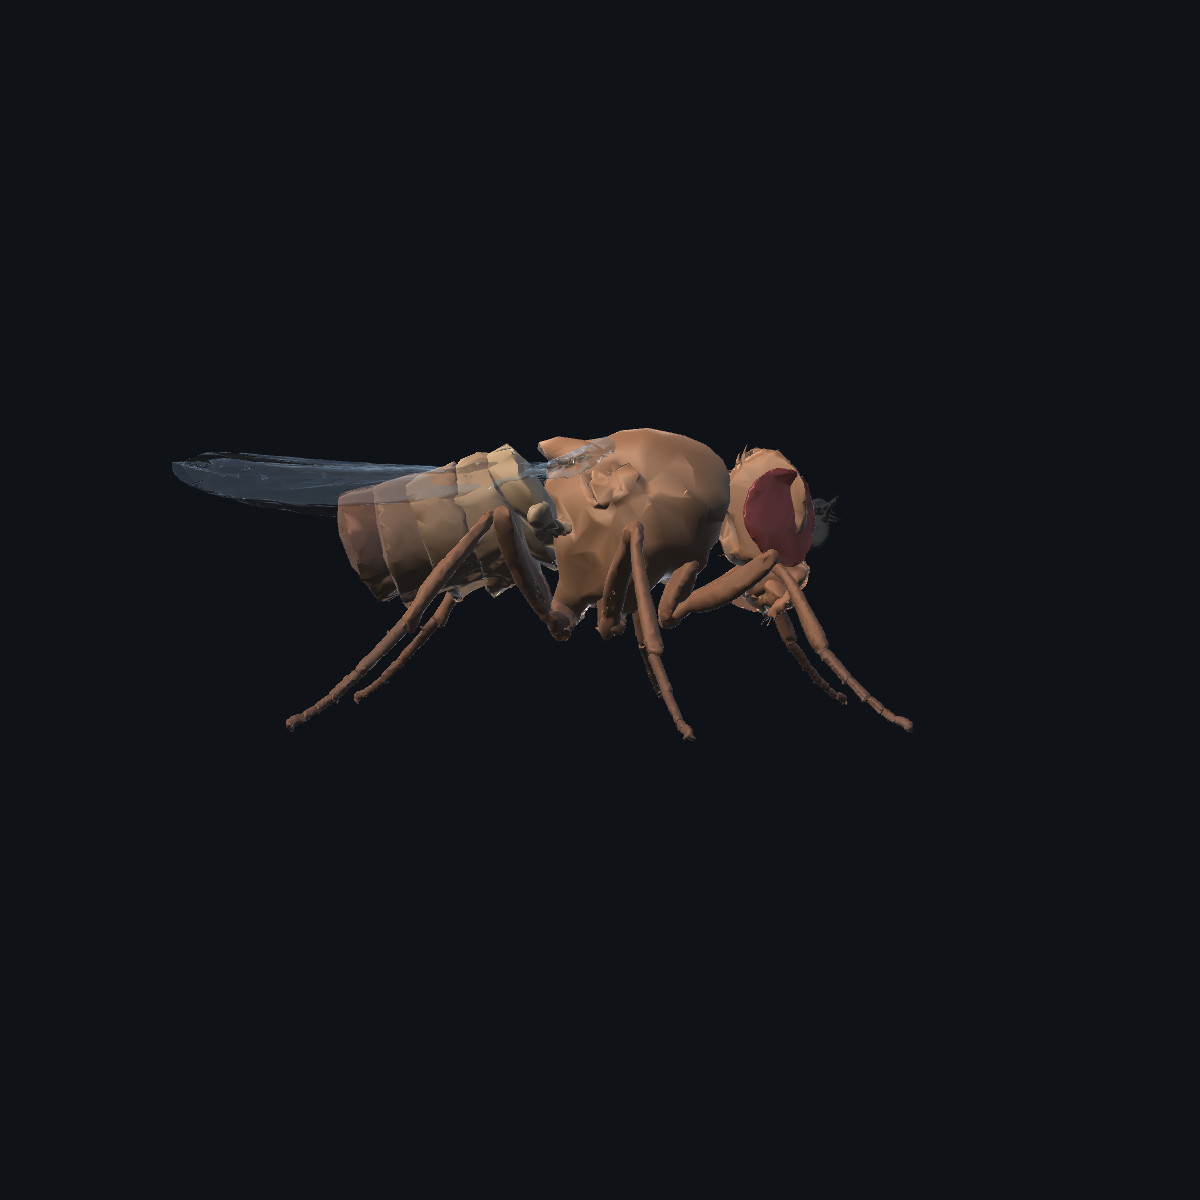
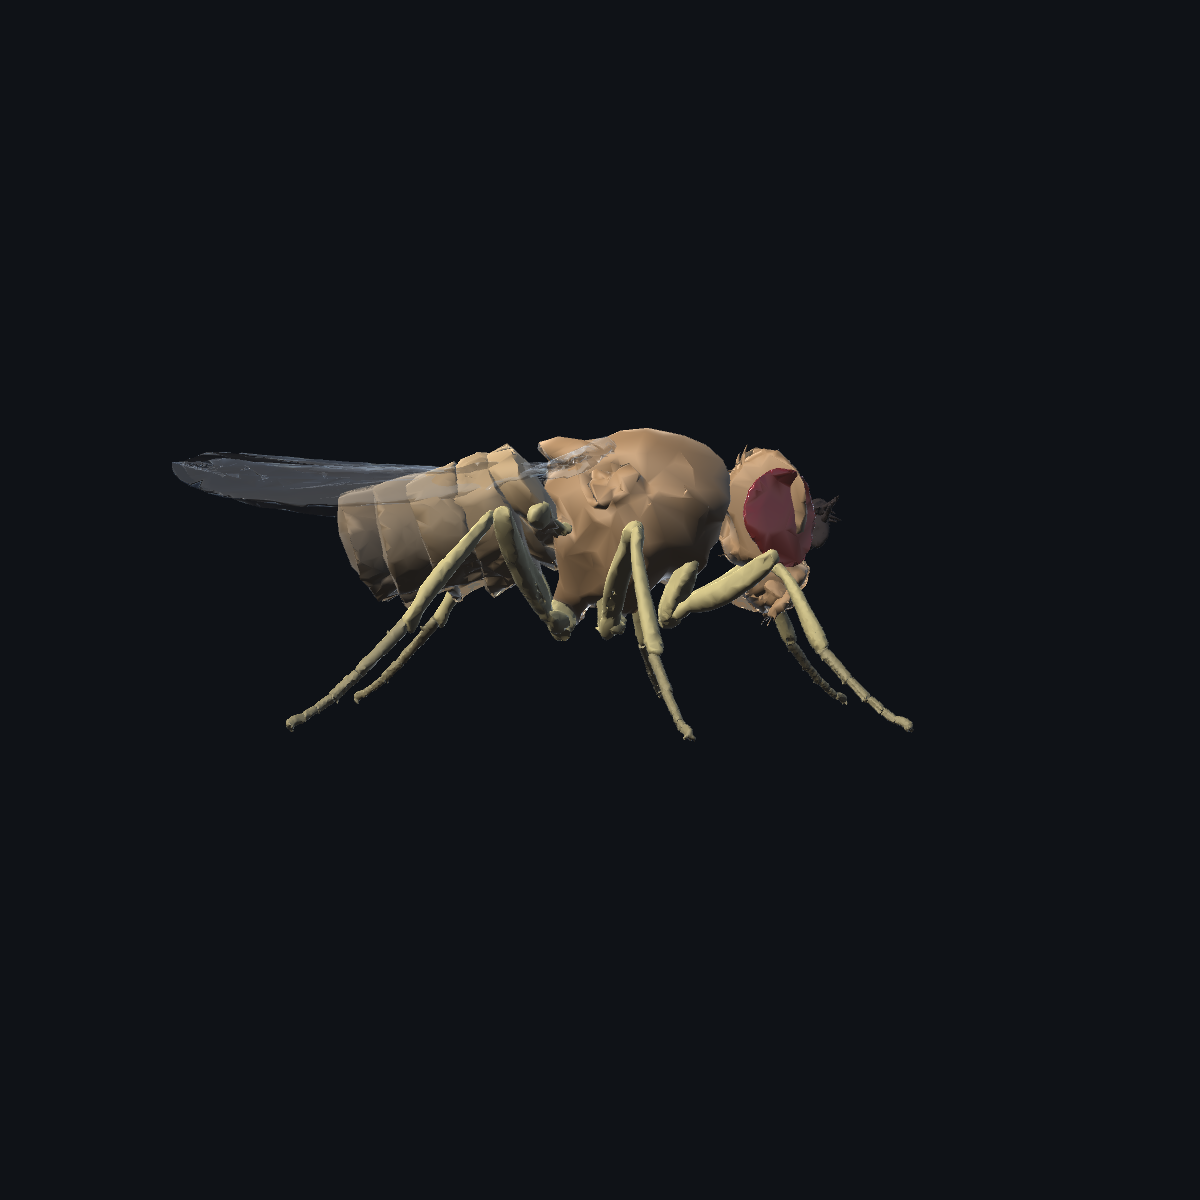
feat: add the Drosophila palette alongside the flybody one
Paleta proposta pelo usuario, aplicada dentro da arquitetura que ja existe:

  olho      #A61C1C   tijolo
  torax     #C68E4F   ambar
  abdomen   #DEB887   ocre, BASE da banda
  perna     #EEDC82   amarelo palido
  asa       #EAF0F1   quase incolor, alfa 0,30

O script DrosophilaPalettePainter nao foi adicionado como veio, por dois
motivos concretos. Ele espera cinco Renderer atribuidos no Inspector, e aqui
sao 69 renderers montados em runtime, sem prefab e sem cena autorada -- os
campos ficariam nulos e nada seria pintado. E usa `renderer.material` em vez de
`sharedMaterial`, que clona um material por renderer a cada chamada; com o
AplicaAparencia() que ja roda no Update os dois se sobrescreveriam e vazariam
instancias.

O que valia era a paleta, e ela esta aqui.

TRES esquemas agora, com a procedencia de cada um no painel:

  Clay        cinza 0,5, o que o modelo carrega de verdade        DATA
  Flybody     valores dos assets do FlyGym, atribuicao nossa      ASSUMPTION
  Drosophila  escolhida a olho                                    ASSUMPTION

O Flybody fica ao lado em vez de ser substituido: e o unico esquema com origem
rastreavel, e apagar ele pra deixar so o que parece melhor jogaria fora a unica
referencia externa que existe.

As cores viraram uma `Paleta` de sete campos base. A ESTRUTURA anatomica e
compartilhada e derivada delas -- banda do abdomen escurecendo pro posterior,
tarso 35% mais escuro que o resto da perna, cerdas quase pretas -- entao trocar
[…]

diff --git a/unity/DrosobotLab/Assets/Scripts/Lab/FlyAppearance.cs b/unity/DrosobotLab/Assets/Scripts/Lab/FlyAppearance.cs
@@ -1,28 +1,29 @@
 // Cor e material da mosca na tela.
 //
-// ## De onde vem a cor, e o que e nosso
+// ## O modelo nao traz cor
 //
-// O modelo que a FISICA roda nao tem cor: os 69 geoms do NeuroMechFly saem do
-// compilador com `rgba` (0,5 0,5 0,5 1) e `matid = -1`. Verificado, nao
-// suposto -- `nmat = 1` no modelo inteiro, e esse material e o `grid` do chao
-// da arena.
+// O modelo que a FISICA roda sai do compilador sem material nenhum: `nmat = 1`
+// no modelo inteiro, e esse material e o `grid` do chao da arena. Os 69 geoms
+// tem `matid = -1` e `rgba` (0,5 0,5 0,5 1). Verificado, nao suposto.
 //
-// Os VALORES usados aqui nao sao inventados por nos: sao a paleta do modelo
-// `flybody` que vem no mesmo pacote de assets do FlyGym
-// (`flygym/assets/model/flybody/fruitfly.xml`, Vaxenburg et al.), que e um
-// modelo de Drosophila autorado com material por regiao.
+// Entao toda cor daqui e escolha de apresentacao, e o painel CORPO diz qual
+// esquema esta ligado e de onde ele veio. Sao tres:
 //
-// A ATRIBUICAO e nossa. O `fruitfly.xml` divide o corpo em outros geoms
-// (`thorax_black`, `head_red`, `wing_left_membrane`...), 28 com material, e nao
-// da pra casar um a um com os nossos 69 segmentos. Entao mapeamos por anatomia,
-// e isso e ASSUMPTION -- fica dito no painel CORPO.
+//   Clay        o cinza 0,5 que o modelo de fato carrega. DATA.
+//   Flybody     paleta do modelo `flybody` que vem no mesmo pacote de assets
+//               do FlyGym (assets/model/flybody/fruitfly.xml, Vaxenburg et
+//               al.), autorada com material por regiao. Os VALORES vem de la;
+//               a atribuicao aos nossos segmentos e nossa.
+//   Drosophila  paleta escolhida a olho pra leitura no fundo escuro do Lab.
+//               Nao tem procedencia de medicao nenhuma.
+//
+// Os dois esquemas de cor ficam lado a lado de proposito. O Flybody e o unico
+// com origem rastreavel, e apagar ele pra deixar so o que "parece melhor"
+// jogaria fora a unica referencia externa que existe.
 //
 // Nenhuma cor aqui codifica grandeza. Nao ha contato, ativacao nem forca sendo
 // pintada no corpo. Se um dia houver, tem que ser em outro canal visual e
 // rotulado como tal, senao vira grafico disfarcado de foto.
-//
-// A geometria continua sendo a do modelo compilado que a fisica roda. So o que
-// reflete luz e escolha nossa.
 //
 // ## O que NAO da pra fazer com este modelo
 //
@@ -42,30 +43,86 @@ namespace Drosobot.Lab
         /// depuracao: sem cor competindo, forma e pose ficam mais legiveis.
         /// </summary>
         Clay,
-        /// <summary>Paleta do flybody, atribuida por anatomia.</summary>
-        Realista,
+        /// <summary>Valores da paleta do flybody, atribuidos por anatomia.</summary>
+        Flybody,
+        /// <summary>Paleta escolhida a olho pra leitura no fundo escuro.</summary>
+        Drosophila,
     }
 
     public static class FlyAppearance
     {
-        // ------------------------------------------------- paleta do flybody
-        //
-        // Copiada de flygym/assets/model/flybody/fruitfly.xml. Os nomes sao os
-        // de la, de proposito, pra dar pra conferir linha a linha.
-        private static readonly Color Body = Rgb(0.674f, 0.350f, 0.143f);
-        private static readonly Color Lower = Rgb(0.799f, 0.610f, 0.386f);
-        private static readonly Color Brown = Rgb(0.202f, 0.0782f, 0.0262f);
-        private static readonly Color Bristle = Rgb(0.06f, 0.04f, 0.03f);
-        private static readonly Color Membrana = new Color(0.539f, 0.686f, 0.800f, 0.30f);
+        /// <summary>
+        /// As cores base de um esquema. So as BASE: banda do abdomen e
+        /// escurecimento distal das pernas sao derivados delas, nao listados um
+        /// a um -- assim os dois esquemas ganham a mesma estrutura anatomica e
+        /// so a cor muda.
+        /// </summary>
+        private struct Paleta
+        {
+            public Color cuticula;   // cabeca, rostro, o que nao tem regra propria
+            public Color torax;
+            public Color abdomen;    // BASE do abdomen; a banda sai daqui
+            public Color perna;      // femur/tibia/coxa; o tarso escurece
+            public Color olho;
+            public Color asa;        // com alfa
+            public Color haltere;
+        }
+
+        // Paleta do flybody: flygym/assets/model/flybody/fruitfly.xml. Os nomes
+        // de la ficam no comentario pra dar pra conferir linha a linha.
+        private static readonly Paleta DoFlybody = new Paleta
+        {
+            cuticula = Rgb(0.674f, 0.350f, 0.143f),                  // body
+            torax = Color.Lerp(Rgb(0.674f, 0.350f, 0.143f),
+                               Rgb(0.799f, 0.610f, 0.386f), 0.25f),  // body -> lower
+            abdomen = Rgb(0.799f, 0.610f, 0.386f),                   // lower
+            perna = Color.Lerp(Rgb(0.674f, 0.350f, 0.143f),
+                               Rgb(0.202f, 0.0782f, 0.0262f), 0.25f), // body -> brown
+            // o `red` de la e (0,8 0,028 0,0015): saturado demais, fica neon no
+            // fundo escuro. Escurecido 45% pro `brown` da mesma paleta.
+            olho = Color.Lerp(Rgb(0.800f, 0.0279f, 0.00154f),
+                              Rgb(0.202f, 0.0782f, 0.0262f), 0.45f),
+            asa = new Color(0.539f, 0.686f, 0.800f, 0.30f),          // membrane
+            haltere = Rgb(0.799f, 0.610f, 0.386f),                   // lower
+        };
+
+        // Paleta Drosophila: tons claros de cuticula, olho tijolo, asa quase
+        // incolor. Mais clara que a do flybody, que no fundo escuro do Lab
+        // tende a fechar. Escolhida a olho.
+        private static readonly Paleta DeDrosophila = new Paleta
+        {
+            cuticula = Rgb(0.78f, 0.56f, 0.31f),   // #C68E4F
+            torax = Rgb(0.78f, 0.56f, 0.31f),      // #C68E4F
+            abdomen = Rgb(0.87f, 0.70f, 0.44f),    // #DEB887
+            perna = Rgb(0.93f, 0.86f, 0.51f),      // #EEDC82
+            olho = Rgb(0.65f, 0.11f, 0.11f),       // #A61C1C
+            asa = new Color(0.92f, 0.94f, 0.95f, 0.30f),  // #EAF0F1
+            haltere = Rgb(0.93f, 0.86f, 0.51f),
+        };
+
+        // Para onde as partes escuras puxam: cerdas, tarsos, banda posterior do
+        // abdomen. Um so, pros dois esquemas, pra que a estrutura seja a mesma.
+        private static readonly Color Escuro = Rgb(0.10f, 0.05f, 0.03f);
         private static readonly Color Neutro = new Color(0.5f, 0.5f, 0.5f);
 
-        // O `red` do flybody e (0,8 0,028 0,0015): saturado demais, fica neon
-        // no fundo escuro do Lab. Escurecido pra vinho, 45% na direcao do
-        // `brown` da mesma paleta. Este ajuste e nosso.
-        private static readonly Color Olho =
-            Color.Lerp(Rgb(0.800f, 0.0279f, 0.00154f), Rgb(0.202f, 0.0782f, 0.0262f), 0.45f);
-
         private static Color Rgb(float r, float g, float b) => new Color(r, g, b, 1f);
+
+        private static Paleta Escolhe(Aparencia modo)
+            => modo == Aparencia.Flybody ? DoFlybody : DeDrosophila;
+
+        /// <summary>De onde veio a cor deste esquema, pro painel dizer.</summary>
+        public static string Procedencia(Aparencia modo)
+        {
+            switch (modo)
+            {
+                case Aparencia.Clay:
+                    return "cinza 0,5 -- a unica cor que o modelo carrega";
+                case Aparencia.Flybody:
+                    return "valores do flybody (assets do FlyGym); atribuicao nossa";
+                default:
+                    return "escolhida a olho; sem procedencia de medicao";
+            }
+        }
 
         /// <summary>
         /// Em que categoria visual cai um segmento. Publico pra que quem pinta
@@ -112,56 +169,56 @@ namespace Drosobot.Lab
                 return m;
             }
 
+            var p = Escolhe(modo);
             string cat = Categoria(segmento);
 
             if (cat == "olho")
             {
-                // olho composto: liso, um pouco mais brilhante que a cuticula.
-                // E o que mais denuncia uma mosca de verdade numa imagem.
-                Ajusta(m, Olho, 0.55f);
+                // olho composto: liso, mais brilhante que a cuticula. E o que
+                // mais denuncia uma mosca de verdade numa imagem.
+                Ajusta(m, p.olho, 0.78f);
             }
             else if (cat == "asa")
             {
-                // membrana: quase transparente e com brilho especular alto, que
-                // e o que da a leitura de "fina" sem nervura nenhuma
-                Ajusta(m, Membrana, 0.80f);
+                // membrana: quase transparente e com especular alto, que e o
+                // que da a leitura de "fina" sem nervura nenhuma
+                Ajusta(m, p.asa, 0.88f);
                 Transparente(m);
             }
             else if (cat == "haltere")
             {
-                Ajusta(m, Lower, 0.35f);
+                Ajusta(m, p.haltere, 0.35f);
             }
             else if (cat == "cerda")
             {
-                Ajusta(m, Bristle, 0.10f);   // fosca de proposito
+                Ajusta(m, Escuro, 0.10f);    // fosca de proposito
             }
             else if (cat == "tarso")
             {
                 // extremidade mais escura: e assim na mosca e ajuda a leitura
                 // de onde a perna termina contra o chao escuro
-                Ajusta(m, Color.Lerp(Body, Brown, 0.55f), 0.30f);
+                Ajusta(m, Color.Lerp(p.perna, Escuro, 0.35f), 0.30f);
             }
             else if (cat == "perna")
             {
-                Ajusta(m, Color.Lerp(Body, Brown, 0.25f), 0.28f);
+                Ajusta(m, p.perna, 0.22f);
             }
             else if (cat.StartsWith("abdomen"))
             {
                 // Banda do abdomen. Cada terguito escurece em direcao ao
-                // posterior, do `lower` ao `brown` da paleta. Os limites das
-                // faixas sao as juntas reais entre os corpos do modelo.
+                // posterior. Os limites das faixas sao as juntas reais entre os
+                // corpos do modelo, entao a faixa sai da geometria.
                 int i = cat.Length > 7 ? cat[7] - '0' : 2;
                 float t = Mathf.InverseLerp(2f, 6f, i);
-                Ajusta(m, Color.Lerp(Lower, Color.Lerp(Body, Brown, 0.5f), t), 0.30f);
+                Ajusta(m, Color.Lerp(p.abdomen, Escuro, 0.42f * t), 0.30f);
             }
             else if (cat == "torax")
             {
-                // torax um tom mais quente que o resto
-                Ajusta(m, Color.Lerp(Body, Lower, 0.25f), 0.38f);
+                Ajusta(m, p.torax, 0.38f);
             }
             else
             {
-                Ajusta(m, Body, 0.30f);      // cabeca, rostro, o resto
+                Ajusta(m, p.cuticula, 0.30f);   // cabeca, rostro, o resto
             }
             return m;
         }

diff --git a/unity/DrosobotLab/Assets/Scripts/Lab/LabBootstrap.cs b/unity/DrosobotLab/Assets/Scripts/Lab/LabBootstrap.cs
@@ -677,6 +677,8 @@ namespace Drosobot.Lab
             { "Normal", "Bind Pose", "Eixos", "Rotulos" };
         private static readonly string[] RotulosVista =
             { "Persp", "Lado", "Topo", "Frente" };
+        private static readonly string[] RotulosCor =
+            { "Clay", "Flybody", "Drosophila" };
 
         private void MontaCorpo()
         {
@@ -796,23 +798,22 @@ namespace Drosobot.Lab
             _pCorpo.Espacador();
             _pCorpo.Desenho(24f, r =>
             {
-                float w = (r.width - 2f) / 2f;
-                for (int i = 0; i < 2; i++)
+                float w = (r.width - 4f) / 3f;
+                for (int i = 0; i < RotulosCor.Length; i++)
                 {
                     var b = new Rect(r.x + i * (w + 2f), r.y, w, 22f);
                     var antes = GUI.color;
                     GUI.color = (int)_mosca.aparencia == i
                         ? new Color(0.45f, 0.80f, 1.00f)
                         : new Color(0.78f, 0.80f, 0.84f);
-                    if (GUI.Button(b, i == 0 ? "Clay" : "Realista"))
+                    if (GUI.Button(b, RotulosCor[i]))
                         _mosca.aparencia = (Aparencia)i;
                     GUI.color = antes;
                 }
             });
-            _pCorpo.Texto(_mosca.aparencia == Aparencia.Clay
-                    ? "  cinza 0,5 -- a unica cor que o modelo carrega"
-                    : "  paleta do flybody; atribuicao por anatomia e nossa",
-                _mono,
+            // Clay e a unica cor que o modelo carrega de verdade; os outros
+            // dois sao apresentacao, e o painel diz de onde cada um veio.
+            _pCorpo.Texto("  " + FlyAppearance.Procedencia(_mosca.aparencia), _mono,
                 ProvenanceUtil.Color(_mosca.aparencia == Aparencia.Clay
                                      ? Provenance.Data : Provenance.Assumption));
             _pCorpo.Texto($"{_mosca.segmentosMontados} segmentos   " +

diff --git a/unity/DrosobotLab/Assets/Editor/CaptureBodyShots.cs b/unity/DrosobotLab/Assets/Editor/CaptureBodyShots.cs
@@ -83,7 +83,12 @@ namespace Drosobot.EditorTools
             Tira(cam, mosca, b, -40f, 22f, "fly_clay_perspectiva");
             Tira(cam, mosca, b, 0f, 0f, "fly_clay_lateral");
 
-            mosca.aparencia = Aparencia.Realista;
+            mosca.aparencia = Aparencia.Flybody;
+            mosca.AplicaAparencia();
+            Tira(cam, mosca, b, -40f, 22f, "fly_flybody_perspectiva");
+            Tira(cam, mosca, b, 0f, 0f, "fly_flybody_lateral");
+
+            mosca.aparencia = Aparencia.Drosophila;
             mosca.AplicaAparencia();
             Tira(cam, mosca, b, -40f, 22f, "fly_bindpose_perspectiva");
             Tira(cam, mosca, b, 0f, 0f, "fly_bindpose_lateral");

diff --git a/unity/DrosobotLab/Assets/Scripts/Lab/FlyBody.cs b/unity/DrosobotLab/Assets/Scripts/Lab/FlyBody.cs
@@ -61,7 +61,7 @@ namespace Drosobot.Lab
         public float tamanhoEixo = 0.35f;
         [Tooltip("Esquema de cor. O modelo NAO traz cor -- os 69 geoms sao " +
                  "cinza 0,5. Ver FlyAppearance.cs.")]
-        public Aparencia aparencia = Aparencia.Realista;
+        public Aparencia aparencia = Aparencia.Drosophila;
 
         private class Seg
         {

diff --git a/docs/UNITY_BODY_COORDINATES.md b/docs/UNITY_BODY_COORDINATES.md
@@ -204,15 +204,21 @@ O modelo que a física roda **não traz cor**: os 69 geoms têm `rgba`
 (0,5 0,5 0,5 1) e `matid = -1` — o modelo inteiro tem `nmat = 1`, e esse
 material é o `grid` do chão da arena.
 
-Os valores usados em `FlyAppearance.cs` não são inventados: são a paleta do
-modelo `flybody` que vem no mesmo pacote de assets do FlyGym
-(`flygym/assets/model/flybody/fruitfly.xml`), autorada com material por região —
-`body`, `lower`, `brown`, `membrane`, `red`, `bristle-brown`.
+Há três esquemas, e o painel CORPO diz qual está ligado e de onde ele veio:
 
-A **atribuição** é nossa e é ASSUMPTION: o `fruitfly.xml` divide o corpo em
-outros geoms (28 com material) e não casa um a um com os nossos 68 segmentos,
-então o mapeamento é por anatomia. O painel CORPO diz qual esquema está ligado e
-com que procedência, e tem `[Clay]` pra voltar ao cinza do modelo.
+| esquema | origem | procedência |
+|---|---|---|
+| **Clay** | o cinza 0,5 que o modelo carrega | DATA |
+| **Flybody** | valores de `flygym/assets/model/flybody/fruitfly.xml` (`body`, `lower`, `brown`, `membrane`, `red`), atribuídos por anatomia | ASSUMPTION |
+| **Drosophila** | escolhido a olho pra leitura no fundo escuro | ASSUMPTION |
+
+O Flybody fica ao lado do Drosophila de propósito: é o único com origem
+rastreável, e apagá-lo pra deixar só o que "parece melhor" jogaria fora a única
+referência externa que existe.
+
+Os dois esquemas de cor compartilham a mesma **estrutura**: banda do abdômen e
+escurecimento distal das pernas são derivados das cores base, não listados um a
+um. Só a cor muda.
 
 Nenhuma dessas cores codifica grandeza: não há contato, ativação nem força sendo
 pintada no corpo.
